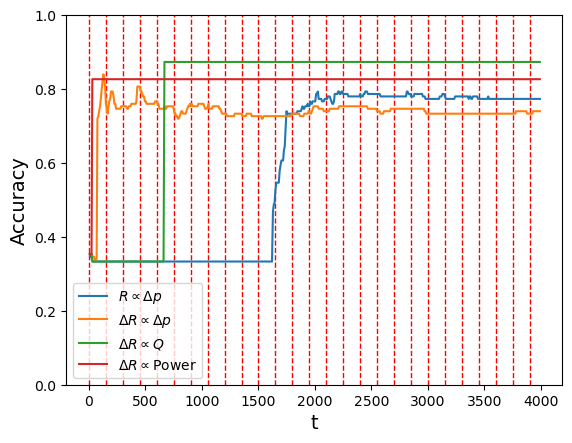
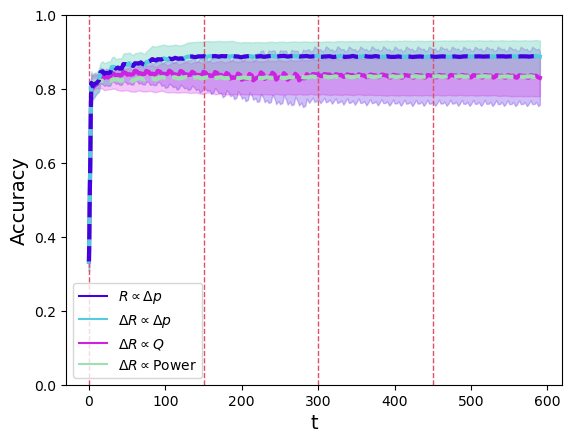
focusing on Fig3

diff --git a/main.tex b/main.tex
@@ -130,7 +130,7 @@ Abstract -
         \vec{\mathcal{L}}\left(t\right)=\widehat{\vec{y}}\left(t\right)-\vec{y}\left(t\right) \ ,
     \end{equation}
     
-    and is potentially non-positive and multi-dimensional with the same dimension as the output. We note that $M$ cannot obtain any arbitrary value since the outputs cannot have higher values than the inputs. The relevant nomenclature for this work is given in Table \ref{tab:nomenclature}.
+    and is potentially non-positive and multi-dimensional with the same dimension as the output. We note that $M$ cannot obtain any arbitrary value since the outputs cannot have higher values than the inputs; It is constrained so that all the entries of $M$ sum up to less than the input values. However, if a general $M$ is desired, dividing the whole task matrix $M$ by a constant and multiplying the outputs by the same constant will yield the desired task. The relevant nomenclature for this work is given in Table \ref{tab:nomenclature}.
 
     \begin{table}[b]%The best place to locate the table environment is directly after its first reference in text
     \caption{\label{tab:nomenclature}%
@@ -234,34 +234,34 @@ Abstract -
     The pressure difference between inputs and outputs in the dual state exceeds that in the measured state, so during training the system is strained, in terms of inputs and outputs, beyond the task itself. This alludes to an exaggerated directed aging, in contrast to regular directed aging where a system learns as it is strained to exactly the desired amplitude and not above it.
     \begin{figure*}[ht]
     \centerline{
-    \includegraphics[width=\textwidth,height=\textheight,keepaspectratio]{Figures/performance_2_examples_4panels.png}
+    \includegraphics[width=\textwidth,height=\textheight,keepaspectratio]{Figures/performance_2_examples_4panels_mycolors.png}
     }
-    \caption{Left to right - measured output divided by desired output (minus 1), the inputs and outputs at the dual problem, the resistances and the magnitude of the loss as function of training step $t$, and the network structure. Upper panels show the performance of a network with $1$ input, $2$ output and $1$ ground nodes (numbered $0$ to $3$, respectively) trained for task A: $x=\left[\begin{array}{cc}0.15 & 0.2\end{array}\right]\left[\begin{array}{c} p_{1}\\p_{2}\end{array}\right]$ and lower panels for a $2$ input $1$ output and $1$ ground nodes network trained for task B: $\vec{x}=\left[\begin{array}{c}0.15\\0.2\end{array}\right]\vec{p}$.}
+    \caption{Left to right - absolute value of the loss, the inputs and outputs at the dual state and the resistances as function of training step $t$, and the network structure. In the leftmost panels, the loss is normalized by the absolute value of the inputs. Upper panels show the performance of a network with $1$ input, $2$ output and $1$ ground nodes (numbered $0$ to $3$, respectively) trained for task A: $y=\left[\begin{array}{cc}0.15 & 0.2\end{array}\right]\left[\begin{array}{c} x_{1}\\x_{2}\end{array}\right]$ and lower panels for a $2$ input $1$ output and $1$ ground nodes network trained for task B: $\vec{y}=\left[\begin{array}{c}0.15\\0.2\end{array}\right]\vec{x}$.}
     \label{fig:variabs_in_t}
     \end{figure*}
     We note that the system exhibits "catastrophic forgetting" (as in \cite{FRENCH1999128}) where training the network successively task after task results in the system being able to perform only a single task at a time, erasing the memory of previous tasks once a new one is learned. Nonetheless, given every state of the system, it can be trained to perform various tasks of classification and regression, in succession.
 
 \subsection{Classification}\label{sec:Classification}
 
-    Classification tasks are highly non-trivial and usually non-linear, and is often a staple of versatility and generalizability for learning networks. We tested the performance of the scheme on the iris benchmark dataset \cite{fisher1936use}, where one of three iris species is to be identified using $4$ input parameters. Hence, we looked at a network with $4$ input, $3$ output nodes and $1$ ground node. Instead of using a one-hot $3$ dimensional output as desired output for each iris specie, we chose the average output of all samples from the specie. This requires passing all $150$ iris samples in the dataset through the network at the beginning of each epoch and averaging over outputs from all samples of the same specie. Nonetheless, since the network is linear, this averaging is equivalent to passing the average of the inputs of that specie, which simplifies the training procedure. This averaging is essentially just tokenizing the outputs to an embedding dimension of $3$; a common practice in the field of Machine Learning. We note that the network itself specifies the desired outputs and that they converge to a steady state in the course of training. A correct classification of an iris sample is when the measured output is closest in terms of $3$ dimensional $L2$ norm to the desired output, and the accuracy of the prediction of the network is the average of samples correctly classified in the whole dataset. Using our scheme, the accuracy approaches $80\%$ after around 14 epochs, as in Figure \ref{fig:accuracy_vs_t}.
+    Classification tasks are highly non-trivial and are often a staple of versatility and generalizability for learning networks. We tested the performance of the proposed scheme on the iris benchmark dataset \cite{fisher1936use}, where one of three iris species is to be identified using $4$ input parameters. Hence, we looked at a network with $4$ input, $3$ output nodes and $1$ ground node. Instead of using a one-hot $3$ dimensional output as desired output for each iris specie, we chose the average output of all samples from the specie. This requires passing all $150$ iris samples in the dataset through the network at the beginning of each epoch and averaging over outputs from all samples of the same specie. Nonetheless, since the network is linear, this averaging is equivalent to passing the average of the inputs of that specie, which simplifies the training procedure. This averaging is essentially just tokenizing the outputs to an embedding dimension of $3$; a common practice in the field of Machine Learning. We note that the network itself specifies the desired outputs and that they converge to a steady state in the course of training. A correct classification of an iris sample is when the measured output is closest in terms of $3$ dimensional $L2$ norm to the desired output, and the accuracy of the prediction of the network is the average of samples correctly classified in the whole dataset. Using our scheme, with training set of $30$ Iris samples and the remaining $120$ are saved for test, the test accuracy easily reaches $93\%$ after less than an epoch, as in Figure \ref{fig:accuracy_vs_t}.
 
     \begin{figure}[ht]
     \centerline{
-    \includegraphics[width=\columnwidth]{Figures/accuracy_vs_t.png}
+    \includegraphics[width=\columnwidth]{Figures/accuracy_vs_t_markers.png}
     }
-    \caption{The accuracy as function of training step $t$ (blue), defined as fraction of irises correctly classified from the full iris dataset. Dashed-red lines mark times when the desired outputs were re-calculated; At the beginning of every epoch, every $150$ training steps.}
+    \caption{The prediction accuracy as function of training step $t$ (blue), defined as fraction of irises correctly classified from the full iris dataset. Solid line represent the ensemble mean out of $8$ runs and opaque bounds are one standard-deviation from mean. Dashed-red lines mark times when the desired outputs were re-calculated; At the beginning of every epoch, every $150$ training steps.}
     \label{fig:accuracy_vs_t}
     \end{figure}    
 
 \subsection{Scaling up the network}\label{sec:scaling_up}
 
-    A difficulty arises when taking larger dimensions for $M$ in a regression task; There, the task complexity grows and the performance of the network decreases, even if the number of resistors scales with the task, as shown in figure \ref{fig:log_loss_afo_inputs_outputs}. This happens because the number of degrees of freedom needed to solve equation \ref{eq:task} is $\left(\text{inputs}\times\text{outputs}\right)$ whereas the training scheme only changes the input and output values in the dual state which are $\left(\text{inputs}+\text{outputs}\right)$ parameters; The resistances cannot acquire any arbitrary value for the family of networks studied here. One way of finding the dual values for inputs and outputs that will provide the closest resistances to those that actually solve the regression task is the following: first, from equations \ref{eq:power_dissipation} and \ref{eq:task} the optimal resistances that solve the task can be extracted in the form of a sparse matrix $R_{ij}^*$ and from there pseudo-inverse on the matrix will yield the pressure differences $p_i^!-x_j^!=\frac{1}{\gamma}R_{ij}^{*-1}$. Nonetheless, this null solution performs worse than a network trained using the scheme proposed in section \ref{sec:training}, as shown in figure \ref{fig:pseudo_vs_network_comparison}, suggesting that even though the network performance decreases as the task complexity increases due to limited number of adjustable degrees-of-freedom, it still outperforms non-Machine-Learning methods that have access to the same number of degrees-of-freedom.
+    A difficulty arises when taking larger dimensions for $M$ in a regression task; There, the task complexity grows and the performance of the network decreases, even if the number of resistors scales with the task, as shown in figure \ref{fig:log_loss_afo_inputs_outputs}. This happens because the number of degrees of freedom needed to solve equation \ref{eq:task} is $\left(\text{inputs}\times\text{outputs}\right)$ whereas the training scheme only changes the input and output values in the dual state which are $\left(\text{inputs}+\text{outputs}\right)$ parameters; The resistances cannot acquire any arbitrary value for the family of networks studied here. Only the tasks that include $1$ input or $1$ output can be trained to arbitrarily low loss. Moreover, it is slightly harder to train a network with many outputs and few inputs than it is the opposite way around, since in the dual state two samples of inputs are taken at every time step and the inputs are changed accordingly. every input is changed  for more inputs is not the same for $n$ inputs and $m$ outputs One way of finding the dual values for inputs and outputs that will provide the closest resistances to those that actually solve the regression task is the following: first, from equations \ref{eq:power_dissipation} and \ref{eq:task} the optimal resistances that solve the task can be extracted in the form of a sparse matrix $R_{ij}^*$ and from there pseudo-inverse on the matrix will yield the pressure differences $p_i^!-x_j^!=\frac{1}{\gamma}R_{ij}^{*-1}$. Nonetheless, this null solution performs worse than a network trained using the scheme proposed in section \ref{sec:training}, as shown in figure \ref{fig:pseudo_vs_network_comparison}, suggesting that even though the network performance decreases as the task complexity increases due to limited number of adjustable degrees-of-freedom, it still outperforms non-Machine-Learning methods that have access to the same number of degrees-of-freedom.
 
     \begin{figure}[ht]
     \centerline{
-    \includegraphics[width=\columnwidth]{Figures/matrix_task_complexity_normalized.png}
+    \includegraphics[width=\columnwidth]{Figures/loss_afo_in_out.png}
     }
-    \caption{Absolute value of the loss at final training step for tasks with varying number of inputs and outputs, denoted as $\#\text{input}$ and $\#\text{output}$ respectively. The data is normalized by the mean desired output over the whole dataset used. The more inputs and outputs there are, the worse the model performs.}
+    \caption{Normalized absolute value of the loss at final training step for tasks with varying number of inputs and outputs, denoted as $\# \, \text{Inputs}$ and $\# \, \text{Outputs}$, respectively. The normalization is with respect to the mean absolute value of the inputs over the whole dataset. Moreover, the figure present the ensemble mean over $8$ runs with randomly chosen $M$, whose entries sum up to $0.5$. The more inputs and outputs there are, the worse the model performs.}
     \label{fig:log_loss_afo_inputs_outputs}
     \end{figure}
 
@@ -285,7 +285,7 @@ Abstract -
     \centerline{
     \includegraphics[width=\columnwidth]{Figures/accuracy_vs_t_4_materials.png}
     }
-    \caption{Accuracy as function of training step $t$ for the Iris dataset. Here we studied $4$ systems with different change in resistance schemes, relating to $4$ different physical materials. Dashed-red lines mark times when the desired outputs were re-calculated; At the beginning of every epoch, every $150$ training steps while the accuracy was measured every $15$ trainig steps. All networks show the ability to learn reaching accuracy of above $80\%$. For $\Delta R\propto Q$ and $\Delta R \propto \mathcal{P}$ we stopped updating the dual state values once accuracy exceeded $80\%$ since performance started to drop afterwards; a common phenomenon of over-training.}
+    \caption{Accuracy as function of training step $t$ for the Iris dataset. Here we studied $4$ systems with different change in resistance schemes, relating to $4$ different physical materials. Solid lines represent ensemble average over $8$ runs and opaque bounds are one standard deviation away from mean. dashed horizontal red lines mark times when the desired outputs were re-calculated; At the beginning of every epoch, every $150$ training steps while the accuracy was measured every $15$ training steps. All networks show the ability to learn reaching accuracy of above $80\%$ on average in less than an epoch.}
     \label{fig:accuracy_4_materials}
     \end{figure}
     
